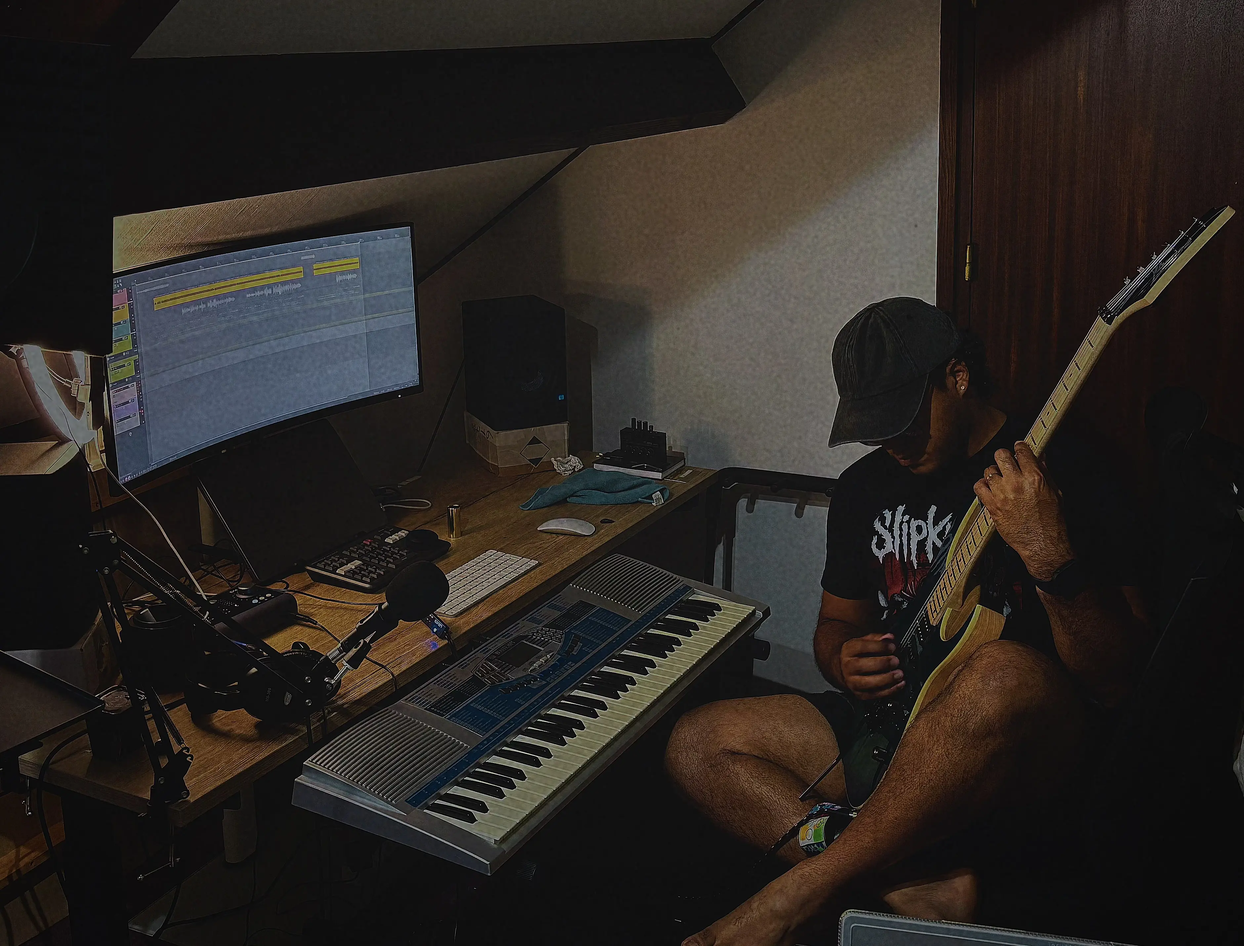
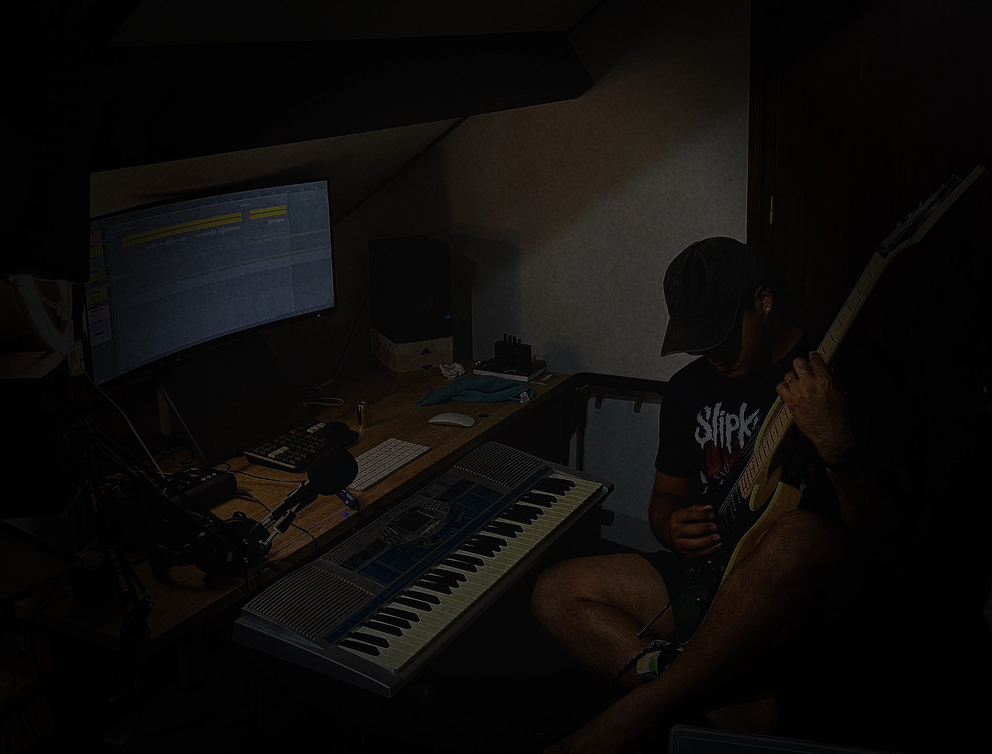
style: add background opacity and refactor BackgroundMedia component image rendering

diff --git a/src/components/media/BackgroundMedia.tsx b/src/components/media/BackgroundMedia.tsx
@@ -1,4 +1,4 @@
-import { useEffect, useState } from 'react';
+import { useEffect, useState } from "react";
 
 export interface BackgroundMediaProps {
   image: string;
@@ -19,24 +19,25 @@ export interface BackgroundMediaProps {
   className?: string;
 }
 
-const REDUCED_MOTION_QUERY = '(prefers-reduced-motion: reduce)';
+const REDUCED_MOTION_QUERY = "(prefers-reduced-motion: reduce)";
 
 function useReducedMotion(): boolean {
-  const [reducedMotion, setReducedMotion] = useState(() => (
-    typeof window !== 'undefined'
-      && typeof window.matchMedia === 'function'
-      && window.matchMedia(REDUCED_MOTION_QUERY).matches
-  ));
+  const [reducedMotion, setReducedMotion] = useState(
+    () =>
+      typeof window !== "undefined" &&
+      typeof window.matchMedia === "function" &&
+      window.matchMedia(REDUCED_MOTION_QUERY).matches,
+  );
 
   useEffect(() => {
-    if (typeof window.matchMedia !== 'function') return undefined;
+    if (typeof window.matchMedia !== "function") return undefined;
 
     const mediaQuery = window.matchMedia(REDUCED_MOTION_QUERY);
     const updatePreference = () => setReducedMotion(mediaQuery.matches);
 
     updatePreference();
-    mediaQuery.addEventListener('change', updatePreference);
-    return () => mediaQuery.removeEventListener('change', updatePreference);
+    mediaQuery.addEventListener("change", updatePreference);
+    return () => mediaQuery.removeEventListener("change", updatePreference);
   }, []);
 
   return reducedMotion;
@@ -46,12 +47,12 @@ function useReducedMotion(): boolean {
 export default function BackgroundMedia({
   image,
   imageSources = [],
-  imageAlt = '',
+  imageAlt = "",
   video,
   videoSources = [],
   poster,
   overlay,
-  className = '',
+  className = "",
 }: BackgroundMediaProps) {
   const reducedMotion = useReducedMotion();
   const [videoAvailable, setVideoAvailable] = useState(Boolean(video));
@@ -60,20 +61,22 @@ export default function BackgroundMedia({
   return (
     <div className={`background-media ${className}`.trim()} aria-hidden="true">
       <picture>
-        {imageSources.map((source) => (
-          <source
-            key={`${source.media ?? 'default'}-${source.srcSet}`}
-            srcSet={source.srcSet}
-            media={source.media}
-            type={source.type}
-          />
-        ))}
-        <img
-          className="background-media__image"
-          src={poster || image}
-          alt={imageAlt}
-          draggable={false}
-        />
+        {image &&
+          imageSources.map((source) => (
+            <source
+              key={`${source.media ?? "default"}-${source.srcSet}`}
+              srcSet={source.srcSet}
+              media={source.media}
+              type={source.type}
+            />
+          )) && (
+            <img
+              className="background-media__image"
+              src={poster || image}
+              alt={imageAlt}
+              draggable={false}
+            />
+          )}
       </picture>
       {shouldRenderVideo && (
         <video
@@ -88,7 +91,7 @@ export default function BackgroundMedia({
         >
           {videoSources.map((source) => (
             <source
-              key={`${source.media ?? 'default'}-${source.src}`}
+              key={`${source.media ?? "default"}-${source.src}`}
               src={source.src}
               media={source.media}
               type={source.type}

diff --git a/src/index.css b/src/index.css
@@ -234,6 +234,7 @@
 
   .background-media__image {
     z-index: 0;
+    opacity: 0.6;
   }
 
   .background-media__video {
